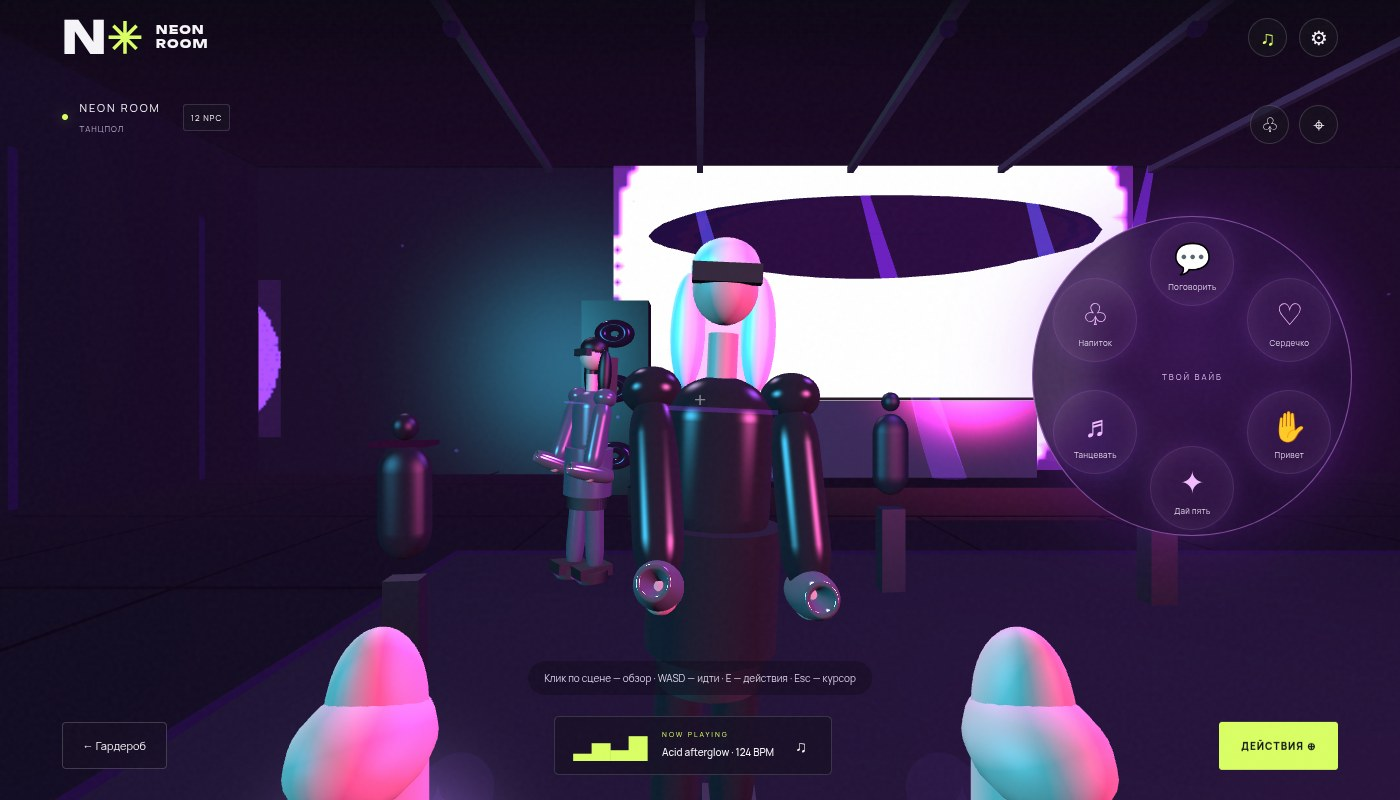
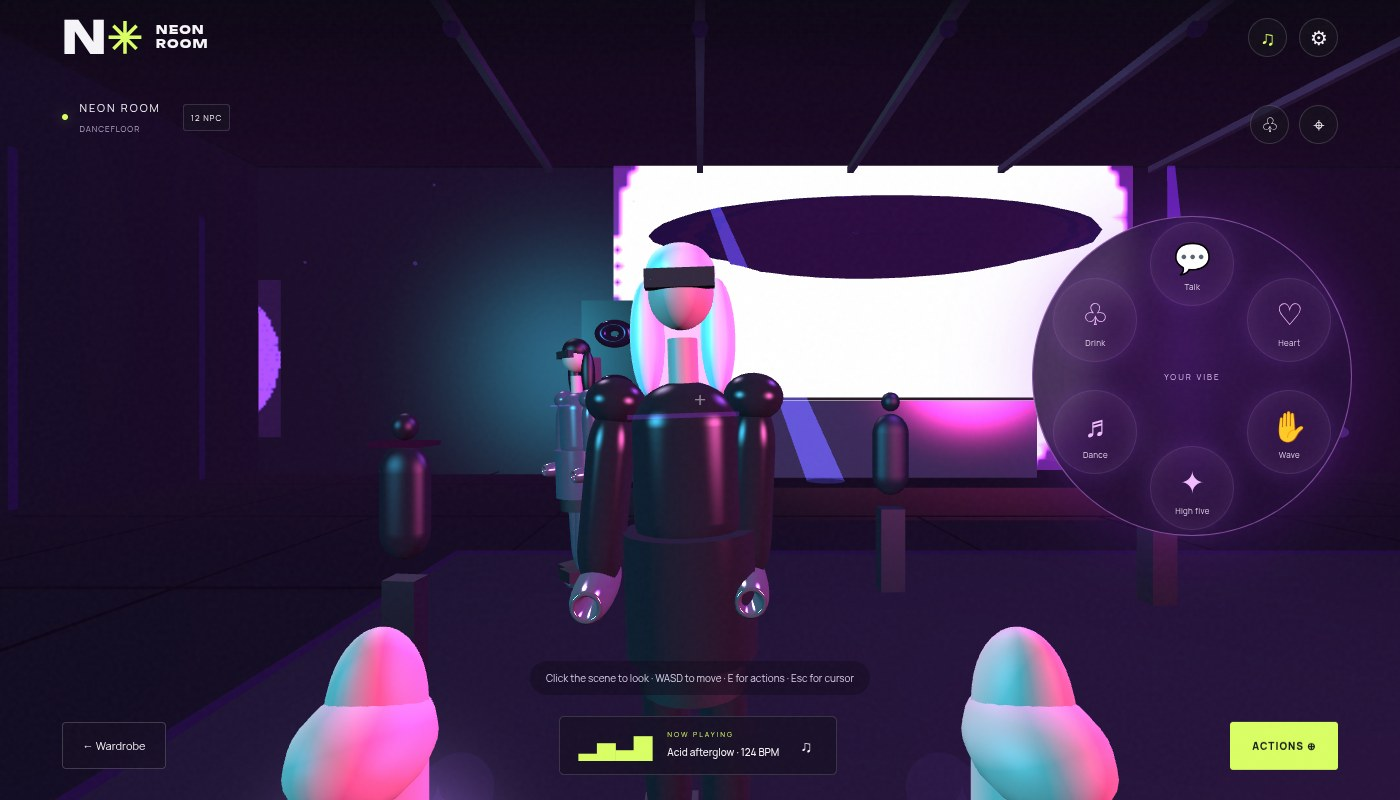
i18n: translate the PlayCanvas interface to English
Every user-facing string in the PlayCanvas port is now English: the landing
page, onboarding (name, wardrobe, locations, controls), the in-game HUD, the
radial action wheel, toasts, the people list, the map, the settings dialog and
the look/zone labels. The Three.js reference under src/ and /classic/ is
untouched.

- playcanvas/index.html, app.js and logic.js contain no Cyrillic text
- a new test asserts the interface ships in English only
- the look-table test now compares name and hex, not the localised note
- screenshots and performance-report.json regenerated

diff --git a/playcanvas/app.js b/playcanvas/app.js
@@ -68,7 +68,7 @@ const npcInteraction = createNpcInteraction({
     if (audio) audio.setDucked(speaking);
     setVolume();
   },
-  onError: () => toast('Не удалось воспроизвести голос. Попробуй ещё раз.')
+  onError: () => toast('Could not play the voice reply. Try again.')
 });
 $('#stop-npc-voice').onclick = () => npcInteraction.stop();
 
@@ -85,9 +85,9 @@ function toggleAudio() {
     if (on) instance.setSilent(false);
     setVolume();
     $('#sound').style.color = on ? 'var(--acid)' : '';
-    toast(on ? 'Музыка включена · ' + instance.trackLabel : 'Музыка выключена');
+    toast(on ? 'Music on · ' + instance.trackLabel : 'Music off');
   } catch (e) {
-    toast('Браузер не разрешил воспроизведение звука');
+    toast('The browser blocked audio playback');
   }
 }
 $('#sound').onclick = toggleAudio;
@@ -96,12 +96,12 @@ $('#game-music').onclick = toggleAudio;
 function nameScreen() {
   const suggestions = ['Luna', 'Void', 'Neon Kid', 'Kira', 'Acid Soul']
     .map(n => '<button data-name="' + n + '">' + n + '</button>').join('');
-  openModal('<div class="name-screen"><span class="step-label">01 / ТВОЁ НОВОЕ Я</span><h2>Как тебя называют<br>после полуночи?</h2><p>Имя для этой ночи. Настоящее или то, которое всегда хотелось.</p><input id="nickname" aria-label="Твоё имя" maxlength="24" placeholder="Твоё имя" autocomplete="nickname"><div class="suggestions">' + suggestions + '</div><button id="next-name" class="primary full">ВЫБРАТЬ ОБРАЗ <span>→</span></button><p style="font-size:10px">Без регистрации. Твой образ сохранится в этом браузере.</p></div>', 'name');
+  openModal('<div class="name-screen"><span class="step-label">01 / YOUR NEW SELF</span><h2>What do they call you<br>after midnight?</h2><p>A name for tonight. Your real one, or the one you always wanted.</p><input id="nickname" aria-label="Your name" maxlength="24" placeholder="Your name" autocomplete="nickname"><div class="suggestions">' + suggestions + '</div><button id="next-name" class="primary full">CHOOSE A LOOK <span>→</span></button><p style="font-size:10px">No sign-up. Your look is saved in this browser.</p></div>', 'name');
   $('#nickname').value = profile.name;
   $$('[data-name]').forEach(b => b.onclick = () => $('#nickname').value = b.dataset.name);
   $('#next-name').onclick = () => {
     const name = $('#nickname').value.trim();
-    if (!name) { toast('Выбери имя или введи своё'); $('#nickname').focus(); return; }
+    if (!name) { toast('Pick a name or type your own'); $('#nickname').focus(); return; }
     profile.name = name;
     save();
     wardrobe();
@@ -111,7 +111,7 @@ function nameScreen() {
 
 function wardrobe() {
   const list = outfits.map((o, i) => '<button class="outfit-item ' + (i === profile.outfit ? 'selected' : '') + '" data-outfit="' + i + '"><span class="swatch" style="background:' + o[1] + '"></span><span><strong>' + o[0] + '</strong><small>' + o[2] + '</small></span></button>').join('');
-  openModal('<span class="step-label">02 / DRESS FOR YOURSELF</span><h2>Найди своё отражение.</h2><div class="outfit-layout"><div class="avatar-preview" id="avatar-preview"><div class="model-views"><button data-view="full" class="active">Во весь рост</button><button data-view="face">Лицо</button><button data-view="fabric">Одежда</button></div><div class="model-zoom"><button id="zoom-in" aria-label="Приблизить модель">+</button><button id="zoom-out" aria-label="Отдалить модель">−</button></div><span class="avatar-caption">ПРОВЕДИ ДЛЯ ВРАЩЕНИЯ ↔</span></div><div><p>AFTER DARK — шесть силуэтов и четыре вариации.<br>Асимметрия, драпировки, объём и металл.</p><div class="outfit-list">' + list + '</div><div class="wardrobe-info" id="outfit-info">' + lookNotes[profile.outfit] + '</div><button class="primary full" id="next-outfit">НАЙТИ ВЕЧЕРИНКУ <span>→</span></button></div></div>', 'wardrobe');
+  openModal('<span class="step-label">02 / DRESS FOR YOURSELF</span><h2>Find your reflection.</h2><div class="outfit-layout"><div class="avatar-preview" id="avatar-preview"><div class="model-views"><button data-view="full" class="active">Full body</button><button data-view="face">Face</button><button data-view="fabric">Garment</button></div><div class="model-zoom"><button id="zoom-in" aria-label="Zoom in">+</button><button id="zoom-out" aria-label="Zoom out">−</button></div><span class="avatar-caption">DRAG TO ROTATE ↔</span></div><div><p>AFTER DARK — six silhouettes, four variations.<br>Asymmetry, drape, volume and metal.</p><div class="outfit-list">' + list + '</div><div class="wardrobe-info" id="outfit-info">' + lookNotes[profile.outfit] + '</div><button class="primary full" id="next-outfit">FIND THE PARTY <span>→</span></button></div></div>', 'wardrobe');
   initPreview();
   $$('[data-outfit]').forEach(b => b.onclick = () => {
     profile.outfit = +b.dataset.outfit;
@@ -124,7 +124,7 @@ function wardrobe() {
 }
 
 function locations() {
-  openModal('<span class="step-label">03 / FOLLOW THE FREQUENCY</span><h2>Куда отправимся?</h2><p>Одна дверь. Целая ночь впереди.</p><div class="location-card"><span class="chip">ОТКРЫТО · ЛОКАЛЬНЫЙ КЛУБ</span><span class="step-label">TECHNO / ACID HOUSE</span><h3>NEON ROOM</h3><p>Танцпол · DJ-сцена · бар · лаунж</p></div><div class="coming-soon"><div>ROOFTOP<small>СЛЕДУЮЩАЯ ГЛАВА</small></div><div>FOREST RAVE<small>СЛЕДУЮЩАЯ ГЛАВА</small></div><div>SPACE CLUB<small>СЛЕДУЮЩАЯ ГЛАВА</small></div></div><button class="primary full" id="enter-club">Я В ДЕЛЕ <span>↗</span></button><p style="font-size:10px">Интерактивная 3D-сцена со стилизованными персонажами. Онлайн и VR — в следующих версиях.</p>', 'locations');
+  openModal('<span class="step-label">03 / FOLLOW THE FREQUENCY</span><h2>Where are we going?</h2><p>One door. A whole night ahead.</p><div class="location-card"><span class="chip">OPEN · LOCAL CLUB</span><span class="step-label">TECHNO / ACID HOUSE</span><h3>NEON ROOM</h3><p>Dancefloor · DJ stage · bar · lounge</p></div><div class="coming-soon"><div>ROOFTOP<small>NEXT CHAPTER</small></div><div>FOREST RAVE<small>NEXT CHAPTER</small></div><div>SPACE CLUB<small>NEXT CHAPTER</small></div></div><button class="primary full" id="enter-club">I AM IN <span>↗</span></button><p style="font-size:10px">An interactive 3D scene with stylized characters. Online and VR are coming in later versions.</p>', 'locations');
   $('#enter-club').onclick = () => profile.name ? controlScreen() : nameScreen();
 }
 
@@ -154,12 +154,12 @@ function setControlMode(mode) {
   save();
   document.body.classList.toggle('mobile-controls', mode === 'mobile');
   $('#game-help').textContent = mode === 'mobile'
-    ? 'Слева — идти · справа — смотреть · можно одновременно'
-    : 'Клик по сцене — обзор · WASD — идти · E — действия · Esc — курсор';
+    ? 'Left to move · right to look · you can do both at once'
+    : 'Click the scene to look · WASD to move · E for actions · Esc for cursor';
 }
 
 function controlScreen() {
-  openModal('<span class="step-label">04 / ТВОЁ УПРАВЛЕНИЕ</span><h2>Как будешь играть?</h2><p>Выбери удобный способ. Его всегда можно сменить в настройках.</p><div class="control-choices"><button data-control="mobile" class="control-choice ' + (controlMode === 'mobile' ? 'selected' : '') + '"><span class="control-icon">▣</span><strong>С телефона</strong><small>Левый джойстик — движение.<br>Правый — поворот и обзор.<br>Все действия — на экране.</small></button><button data-control="desktop" class="control-choice ' + (controlMode === 'desktop' ? 'selected' : '') + '"><span class="control-icon">⌨</span><strong>Клавиатура и мышь</strong><small>WASD — движение.<br>Мышь — поворот и обзор.<br>E — меню действий.</small></button></div><button id="confirm-controls" class="primary full">ВОЙТИ В КЛУБ <span>↗</span></button>', 'controls');
+  openModal('<span class="step-label">04 / YOUR CONTROLS</span><h2>How will you play?</h2><p>Pick what feels right. You can always change it in settings.</p><div class="control-choices"><button data-control="mobile" class="control-choice ' + (controlMode === 'mobile' ? 'selected' : '') + '"><span class="control-icon">▣</span><strong>On a phone</strong><small>Left stick moves.<br>Right stick turns and looks.<br>All actions are on screen.</small></button><button data-control="desktop" class="control-choice ' + (controlMode === 'desktop' ? 'selected' : '') + '"><span class="control-icon">⌨</span><strong>Keyboard and mouse</strong><small>WASD moves.<br>Mouse turns and looks.<br>E opens the action menu.</small></button></div><button id="confirm-controls" class="primary full">ENTER THE CLUB <span>↗</span></button>', 'controls');
   $$('[data-control]').forEach(b => b.onclick = () => {
     setControlMode(b.dataset.control);
     $$('[data-control]').forEach(v => v.classList.toggle('selected', v === b));
@@ -169,7 +169,7 @@ function controlScreen() {
 
 function settings() {
   const trackOptions = tracks.map((t, i) => '<option value="' + i + '">' + t.label + '</option>').join('');
-  openModal('<span class="step-label">MAKE IT YOURS</span><h2>Твоя частота.</h2><div class="settings-row"><label for="control-mode">Управление</label><select id="control-mode"><option value="mobile">Телефон · джойстики</option><option value="desktop">Клавиатура и мышь</option></select></div><div class="settings-row"><label for="volume">Громкость</label><input id="volume" type="range" min="0" max="100" value="' + profile.volume * 100 + '"></div><div class="settings-row"><label for="quality">Графика</label><select id="quality"><option value="low">Экономичная</option><option value="high">Высокая</option></select></div><div class="settings-row"><label for="motion">Спокойный свет</label><input id="motion" type="checkbox" ' + (calmMotion() ? 'checked' : '') + '></div><div class="settings-row"><label for="track">Трек</label><select id="track">' + trackOptions + '</select></div><p>Оригинальные процедурные лупы. Музыка запускается только по твоему нажатию.</p><button class="primary" id="audio-toggle">' + (audio && audio.enabled ? 'ВЫКЛЮЧИТЬ' : 'ВКЛЮЧИТЬ') + ' МУЗЫКУ</button><p style="font-size:10px">Телефон: двигай два джойстика одновременно, чтобы идти и осматриваться. ПК: WASD + мышь.</p>', 'settings');
+  openModal('<span class="step-label">MAKE IT YOURS</span><h2>Your frequency.</h2><div class="settings-row"><label for="control-mode">Controls</label><select id="control-mode"><option value="mobile">Phone · joysticks</option><option value="desktop">Keyboard and mouse</option></select></div><div class="settings-row"><label for="volume">Volume</label><input id="volume" type="range" min="0" max="100" value="' + profile.volume * 100 + '"></div><div class="settings-row"><label for="quality">Graphics</label><select id="quality"><option value="low">Efficient</option><option value="high">High</option></select></div><div class="settings-row"><label for="motion">Calm light</label><input id="motion" type="checkbox" ' + (calmMotion() ? 'checked' : '') + '></div><div class="settings-row"><label for="track">Track</label><select id="track">' + trackOptions + '</select></div><p>Original procedural loops. Music only starts when you tap.</p><button class="primary" id="audio-toggle">' + (audio && audio.enabled ? 'TURN OFF' : 'TURN ON') + ' MUSIC</button><p style="font-size:10px">Phone: move both sticks at once to walk and look around. Desktop: WASD + mouse.</p>', 'settings');
   $('#control-mode').value = controlMode;
   $('#control-mode').onchange = e => setControlMode(e.target.value);
   $('#quality').value = quality;
@@ -187,11 +187,11 @@ function settings() {
     pendingTrack = +e.target.value;
     if (audio) audio.setTrack(pendingTrack);
     $('#track-label').textContent = tracks[pendingTrack].label;
-    toast('Новая частота выбрана');
+    toast('New frequency selected');
   };
   $('#audio-toggle').onclick = () => {
     toggleAudio();
-    $('#audio-toggle').textContent = (audio && audio.enabled ? 'ВЫКЛЮЧИТЬ' : 'ВКЛЮЧИТЬ') + ' МУЗЫКУ';
+    $('#audio-toggle').textContent = (audio && audio.enabled ? 'TURN OFF' : 'TURN ON') + ' MUSIC';
   };
 }
 
@@ -245,7 +245,7 @@ function initPreview() {
     try {
       previewApp = new pc.Application(canvas, { graphicsDeviceOptions: { antialias: true, alpha: true } });
     } catch (e) {
-      toast('3D-превью недоступно в этом браузере');
+      toast('3D preview is unavailable in this browser');
       return;
     }
     previewApp.setCanvasFillMode(pc.FILLMODE_NONE);
@@ -315,7 +315,7 @@ function initWorld() {
     const shotMode = /[?&]shots=1/.test(location.search);
     app = new pc.Application(worldCanvas, { graphicsDeviceOptions: { antialias: quality === 'high', alpha: false, preserveDrawingBuffer: shotMode } });
   } catch (e) {
-    toast('Не удалось запустить WebGL. Попробуй браузер с поддержкой 3D.');
+    toast('Could not start WebGL. Try a browser with 3D support.');
     throw e;
   }
   app.setCanvasFillMode(pc.FILLMODE_FILL_WINDOW);
@@ -479,9 +479,9 @@ function enterClub() {
     setControlMode(controlMode);
     if (!audio) toggleAudio();
     else { audio.setSilent(false); audio.resume(); setVolume(); }
-    toast('Добро пожаловать, ' + profile.name + '. Ночь твоя.');
+    toast('Welcome, ' + profile.name + '. The night is yours.');
   } catch (e) {
-    toast('Не удалось запустить WebGL. Попробуй браузер с поддержкой 3D.');
+    toast('Could not start WebGL. Try a browser with 3D support.');
     console.error(e);
   }
 }
@@ -520,23 +520,23 @@ function action(type) {
   if (type === 'dance') {
     dancing = !dancing;
     $('#dance-state').hidden = !dancing;
-    toast(dancing ? 'Поймай ритм. Движение остановит танец.' : 'Танец остановлен');
+    toast(dancing ? 'Catch the rhythm. Moving will stop the dance.' : 'Dance stopped');
     return;
   }
   if (type === 'drink') {
-    if (drink) { drink = false; $('#drink-view').hidden = true; toast('Напиток убран'); return; }
+    if (drink) { drink = false; $('#drink-view').hidden = true; toast('Drink put away'); return; }
     const cp = camera.getPosition();
-    if (!canTakeDrink(cp.x, cp.z)) { toast('Подойди к бару слева от танцпола'); return; }
+    if (!canTakeDrink(cp.x, cp.z)) { toast('Go to the bar left of the dancefloor'); return; }
     drink = true;
     $('#drink-view').hidden = false;
     effect('✧');
-    toast('Твой Neon tonic. За эту ночь!');
+    toast('Your Neon tonic. To this night!');
     return;
   }
   if (!['talk', 'heart', 'wave', 'five'].includes(type)) return;
   const reply = npcInteraction.interact(near, profile.volume);
-  if (reply === 'out-of-range') { toast('Подойди ближе к персонажу, чтобы поговорить'); return; }
-  if (reply === 'busy') { toast('Персонаж ещё говорит. Дослушай реплику.'); return; }
+  if (reply === 'out-of-range') { toast('Get closer to the character to talk'); return; }
+  if (reply === 'busy') { toast('The character is still talking. Let them finish.'); return; }
   if (reply === 'unavailable') return;
   drink = false;
   $('#drink-view').hidden = true;
@@ -545,19 +545,19 @@ function action(type) {
   const np = near.npc.getPosition();
   near.npc.baseYaw = Math.atan2(cp.x - np.x, cp.z - np.z) * 180 / Math.PI;
   effect({ talk: '💬', heart: '♡', wave: '✋', five: '✦' }[type]);
-  toast(near.npc.npcName + ({ talk: ' отвечает тебе', heart: ' отвечает сердечком ♡', wave: ' машет тебе в ответ', five: ' даёт тебе пять!' }[type]));
+  toast(near.npc.npcName + ({ talk: ' replies to you', heart: ' replies with a heart ♡', wave: ' waves back at you', five: ' high-fives you!' }[type]));
   if (hands) { hands.action = type; hands.until = performance.now() + 1800; }
 }
 
 $$('[data-action]').forEach(b => b.onclick = () => action(b.dataset.action));
 
 $('#people').onclick = () => {
-  const list = club ? club.npcs.map(n => '<div class="person"><span class="person-icon" style="background:' + outfits[n.lookIndex][1] + '">' + n.npcName[0] + '</span><div><b>' + n.npcName + '</b><small>NPC · ' + (n.dance ? 'На танцполе' : 'Отдыхает в клубе') + '</small></div></div>').join('') : '';
-  openModal('<span class="step-label">AROUND YOU</span><h2>На одной волне.</h2><p>Персонажи этой сцены — NPC. Подойди, выбери «Поговорить» или отправь жест — персонаж ответит голосом. Друзья и чат появятся вместе с онлайном.</p>' + list, 'people');
+  const list = club ? club.npcs.map(n => '<div class="person"><span class="person-icon" style="background:' + outfits[n.lookIndex][1] + '">' + n.npcName[0] + '</span><div><b>' + n.npcName + '</b><small>NPC · ' + (n.dance ? 'On the dancefloor' : 'Chilling in the club') + '</small></div></div>').join('') : '';
+  openModal('<span class="step-label">AROUND YOU</span><h2>On the same wavelength.</h2><p>The characters in this scene are NPCs. Walk up, pick “Talk” or send a gesture — they reply with voiced lines. Friends and chat arrive with online play.</p>' + list, 'people');
 };
 
 $('#map').onclick = () => {
-  openModal('<span class="step-label">FIND YOUR SPACE</span><h2>Внутри ночи.</h2><p>Можно дойти пешком или перейти к зоне.</p><div class="map-grid"><button data-zone="0">◉ Танцпол</button><button data-zone="1">♧ Бар</button><button data-zone="2">☾ Лаунж</button><button data-zone="3">↗ Вход</button></div>', 'map');
+  openModal('<span class="step-label">FIND YOUR SPACE</span><h2>Inside the night.</h2><p>Walk there or jump straight to a zone.</p><div class="map-grid"><button data-zone="0">◉ Dancefloor</button><button data-zone="1">♧ Bar</button><button data-zone="2">☾ Lounge</button><button data-zone="3">↗ Entrance</button></div>', 'map');
   $$('[data-zone]').forEach(b => b.onclick = () => {
     const target = mapTargets[+b.dataset.zone];
     if (camera) {

diff --git a/playcanvas/index.html b/playcanvas/index.html
@@ -1,7 +1,7 @@
-<!doctype html><html lang="ru"><head><meta charset="utf-8"><meta name="viewport" content="width=device-width,initial-scale=1,viewport-fit=cover"><meta name="theme-color" content="#10091b"><link rel="icon" href="data:,"><title>NEON ROOM — Ночь начинается с тебя</title><meta name="description" content="Выбери свой образ. Зайди в неоновый 3D-клуб. Танцуй, исследуй и поймай свою частоту."><link rel="stylesheet" href="style.css"></head><body>
+<!doctype html><html lang="en"><head><meta charset="utf-8"><meta name="viewport" content="width=device-width,initial-scale=1,viewport-fit=cover"><meta name="theme-color" content="#10091b"><link rel="icon" href="data:,"><title>NEON ROOM — The night starts with you</title><meta name="description" content="Choose your look. Enter the neon 3D club. Dance, explore and find your frequency."><link rel="stylesheet" href="style.css"></head><body>
 <div id="world"></div><div class="grain"></div>
-<header><a class="brand" href="#" aria-label="NEON ROOM — главная">N<span class="brand-dot">✳</span><span>NEON<br>ROOM</span></a><nav><button data-page="home" class="nav-active">Вечеринка</button><button data-open="wardrobe">Гардероб</button><button data-open="locations">Локации</button></nav><div class="header-right"><span class="edition">AFTER HOURS / VOL. 001 · PLAYCANVAS</span><button id="sound" class="round" aria-label="Включить или выключить музыку">♫</button><button id="settings" class="round" aria-label="Настройки">⚙</button></div></header>
-<main id="landing"><div class="hero-photo"></div><div class="hero-shade"></div><div class="hero-copy"><div class="eyebrow"><i></i> ВИРТУАЛЬНАЯ НОЧЬ. НАСТОЯЩИЙ ВАЙБ.</div><h1>ТВОЯ НОЧЬ.<br>ТВОИ <span>ПРАВИЛА.</span></h1><p>Собери свой образ. Найди свою частоту.<br>Встретимся по ту сторону неона.</p><div class="hero-actions"><button id="start" class="primary">ВОЙТИ В НОЧЬ <span>↗</span></button><button id="explore" class="text-button">Исследовать клуб <span>→</span></button></div><div class="hero-meta"><span><b>01</b> КЛУБ</span><span><b>10</b> ОБРАЗОВ</span><span><b>∞</b> ТВОЙ ВАЙБ</span></div></div><div class="vertical-label">LOSE YOURSELF. FIND YOUR FREQUENCY.</div><div class="photo-tag"><span>THE MOOD</span><b>Electric. Acid. After dark.</b><small>Визуальный концепт NEON ROOM</small></div><div class="hero-bottom"><span><i></i> ИНТЕРАКТИВНЫЙ ПРОТОТИП · NPC</span><span>HEADPHONES ON. WORLD OFF. ↗</span></div></main>
-<section id="home-bottom"><div class="section-title"><span>ВЫБЕРИ СВОЮ ЧАСТОТУ</span><span>ЭТА НОЧЬ ПРИНАДЛЕЖИТ ТЕБЕ ↗</span></div><div class="feature-grid"><button class="feature" data-open="wardrobe"><span class="feature-no">01 / SELF EXPRESSION</span><h2>Не просто<br>дресс-код.</h2><p>10 образов. Ни одного правила.</p><span class="feature-arrow">↗</span><div class="orb one"></div></button><button class="feature" data-open="locations"><span class="feature-no">02 / YOUR DESTINATION</span><h2>Место, где<br>ты на месте.</h2><p>Танцпол, бар и немного космоса.</p><span class="feature-arrow">↗</span><div class="orb two"></div></button><button class="feature" id="dance-card"><span class="feature-no">03 / JUST FEEL IT</span><h2>Меньше слов.<br>Больше баса.</h2><p>Жесты, танцы и твоя энергия.</p><span class="feature-arrow">↗</span><div class="orb three"></div></button></div><footer><span>NEON ROOM © 2026</span><span>СОЗДАНО ДЛЯ ТЕХ, КТО НЕ СПИТ.</span><span>LOCAL EXPERIENCE / V.01</span></footer></section>
-<div id="game-ui" hidden><div class="room-label"><i></i><span>NEON ROOM <small id="zone">ВХОДНАЯ ГАЛЕРЕЯ</small></span><span class="npc-badge">12 NPC</span></div><div id="crosshair">+</div><div class="game-help" id="game-help">Выбери удобный способ управления</div><div class="game-bottom"><button id="backroom" class="glass">← Гардероб</button><div class="now-playing"><span class="equalizer">▂▅▃▇</span><div><small>NOW PLAYING</small><b id="track-label">Acid afterglow · 124 BPM</b></div><button id="game-music" aria-label="Музыка">♫</button></div><button id="actions-toggle" class="primary compact">ДЕЙСТВИЯ ⊕</button></div><div class="game-side"><button id="people" class="round" aria-label="Персонажи">♧</button><button id="map" class="round" aria-label="Карта клуба">⌖</button></div><div id="action-wheel" hidden><div class="wheel-title">ТВОЙ ВАЙБ</div><button data-action="talk">💬<span>Поговорить</span></button><button data-action="heart">♡<span>Сердечко</span></button><button data-action="wave">✋<span>Привет</span></button><button data-action="five">✦<span>Дай пять</span></button><button data-action="dance">♬<span>Танцевать</span></button><button data-action="drink">♧<span>Напиток</span></button></div><div id="touch-controls"><div class="stick-wrap move-wrap"><div class="joystick" id="move-stick" role="group" aria-label="Джойстик движения: вперёд, назад, влево и вправо"><span class="direction north">↑</span><span class="direction south">↓</span><span class="direction west">←</span><span class="direction east">→</span><span class="stick-thumb"></span></div><span class="stick-label">ДВИЖЕНИЕ</span></div><div class="stick-wrap look-wrap"><div class="joystick" id="look-stick" role="group" aria-label="Джойстик обзора: поворот и взгляд вверх или вниз"><span class="direction north">↑</span><span class="direction south">↓</span><span class="direction west">↶</span><span class="direction east">↷</span><span class="stick-thumb">⌖</span></div><span class="stick-label">ОБЗОР</span></div></div><div id="npc-speaking" class="glass" role="status" hidden><span>♫ Персонаж отвечает…</span><button id="stop-npc-voice" aria-label="Остановить голос">×</button></div><div id="effect"></div><div id="drink-view" hidden>♧</div><div id="dance-state" hidden>♫ ТЫ ТАНЦУЕШЬ <small>Нажми ещё раз или начни движение, чтобы остановиться</small></div></div>
-<div id="modal" class="modal" hidden><div class="dialog"><button id="close-modal" class="close" aria-label="Закрыть">×</button><div id="modal-content"></div></div></div><div id="toast" role="status" aria-live="polite"></div><audio id="npc-voice" src="./assets/audio/npc-voice.mp3" preload="none" hidden></audio><script src="./vendor/playcanvas.min.js"></script><script type="module" src="app.js"></script></body></html>
+<header><a class="brand" href="#" aria-label="NEON ROOM — home">N<span class="brand-dot">✳</span><span>NEON<br>ROOM</span></a><nav><button data-page="home" class="nav-active">Party</button><button data-open="wardrobe">Wardrobe</button><button data-open="locations">Locations</button></nav><div class="header-right"><span class="edition">AFTER HOURS / VOL. 001 · PLAYCANVAS</span><button id="sound" class="round" aria-label="Toggle music">♫</button><button id="settings" class="round" aria-label="Settings">⚙</button></div></header>
+<main id="landing"><div class="hero-photo"></div><div class="hero-shade"></div><div class="hero-copy"><div class="eyebrow"><i></i> VIRTUAL NIGHT. REAL VIBE.</div><h1>YOUR NIGHT.<br>YOUR <span>RULES.</span></h1><p>Build your look. Find your frequency.<br>See you on the other side of neon.</p><div class="hero-actions"><button id="start" class="primary">ENTER THE NIGHT <span>↗</span></button><button id="explore" class="text-button">Explore the club <span>→</span></button></div><div class="hero-meta"><span><b>01</b> CLUB</span><span><b>10</b> LOOKS</span><span><b>∞</b> YOUR VIBE</span></div></div><div class="vertical-label">LOSE YOURSELF. FIND YOUR FREQUENCY.</div><div class="photo-tag"><span>THE MOOD</span><b>Electric. Acid. After dark.</b><small>Visual concept NEON ROOM</small></div><div class="hero-bottom"><span><i></i> INTERACTIVE PROTOTYPE · NPC</span><span>HEADPHONES ON. WORLD OFF. ↗</span></div></main>
+<section id="home-bottom"><div class="section-title"><span>PICK YOUR FREQUENCY</span><span>THIS NIGHT IS YOURS ↗</span></div><div class="feature-grid"><button class="feature" data-open="wardrobe"><span class="feature-no">01 / SELF EXPRESSION</span><h2>Not just<br>a dress code.</h2><p>10 looks. Not a single rule.</p><span class="feature-arrow">↗</span><div class="orb one"></div></button><button class="feature" data-open="locations"><span class="feature-no">02 / YOUR DESTINATION</span><h2>The place where<br>you belong.</h2><p>Dancefloor, bar and a little space.</p><span class="feature-arrow">↗</span><div class="orb two"></div></button><button class="feature" id="dance-card"><span class="feature-no">03 / JUST FEEL IT</span><h2>Fewer words.<br>More bass.</h2><p>Gestures, dancing and your energy.</p><span class="feature-arrow">↗</span><div class="orb three"></div></button></div><footer><span>NEON ROOM © 2026</span><span>MADE FOR THOSE WHO DON'T SLEEP.</span><span>LOCAL EXPERIENCE / V.01</span></footer></section>
+<div id="game-ui" hidden><div class="room-label"><i></i><span>NEON ROOM <small id="zone">ENTRANCE GALLERY</small></span><span class="npc-badge">12 NPC</span></div><div id="crosshair">+</div><div class="game-help" id="game-help">Choose your control scheme</div><div class="game-bottom"><button id="backroom" class="glass">← Wardrobe</button><div class="now-playing"><span class="equalizer">▂▅▃▇</span><div><small>NOW PLAYING</small><b id="track-label">Acid afterglow · 124 BPM</b></div><button id="game-music" aria-label="Music">♫</button></div><button id="actions-toggle" class="primary compact">ACTIONS ⊕</button></div><div class="game-side"><button id="people" class="round" aria-label="Characters">♧</button><button id="map" class="round" aria-label="Club map">⌖</button></div><div id="action-wheel" hidden><div class="wheel-title">YOUR VIBE</div><button data-action="talk">💬<span>Talk</span></button><button data-action="heart">♡<span>Heart</span></button><button data-action="wave">✋<span>Wave</span></button><button data-action="five">✦<span>High five</span></button><button data-action="dance">♬<span>Dance</span></button><button data-action="drink">♧<span>Drink</span></button></div><div id="touch-controls"><div class="stick-wrap move-wrap"><div class="joystick" id="move-stick" role="group" aria-label="Movement joystick: forward, back, left and right"><span class="direction north">↑</span><span class="direction south">↓</span><span class="direction west">←</span><span class="direction east">→</span><span class="stick-thumb"></span></div><span class="stick-label">MOVE</span></div><div class="stick-wrap look-wrap"><div class="joystick" id="look-stick" role="group" aria-label="Look joystick: turn and look up or down"><span class="direction north">↑</span><span class="direction south">↓</span><span class="direction west">↶</span><span class="direction east">↷</span><span class="stick-thumb">⌖</span></div><span class="stick-label">LOOK</span></div></div><div id="npc-speaking" class="glass" role="status" hidden><span>♫ Character is replying…</span><button id="stop-npc-voice" aria-label="Stop voice">×</button></div><div id="effect"></div><div id="drink-view" hidden>♧</div><div id="dance-state" hidden>♫ YOU'RE DANCING <small>Tap again or start moving to stop</small></div></div>
+<div id="modal" class="modal" hidden><div class="dialog"><button id="close-modal" class="close" aria-label="Close">×</button><div id="modal-content"></div></div></div><div id="toast" role="status" aria-live="polite"></div><audio id="npc-voice" src="./assets/audio/npc-voice.mp3" preload="none" hidden></audio><script src="./vendor/playcanvas.min.js"></script><script type="module" src="app.js"></script></body></html>

diff --git a/playcanvas/logic.js b/playcanvas/logic.js
@@ -1,29 +1,29 @@
 // Pure, engine-independent logic shared by the PlayCanvas port and its tests.
 
 export const looks = [
-  ['Draped Noir', '#24202b', 'Кожа · асимметричная юбка'],
-  ['Shadow Tailor', '#29262d', 'Деконструкция · широкие брюки'],
-  ['Ritual', '#24252b', 'Высокий воротник · платформы'],
-  ['Acid Nomad', '#30312c', 'Объёмный нейлон · acid green'],
-  ['Violet Veil', '#58304e', 'Фиолетовый · многослойность'],
-  ['Night Mass', '#24222c', 'Длинное пальто · цепи'],
-  ['Silver Noir', '#525260', 'Draped Noir · серебряная кожа'],
-  ['Ash Ritual', '#706a70', 'Ritual · пепельный хлопок'],
-  ['Violet Nomad', '#49334e', 'Acid Nomad · тёмная слива'],
-  ['Midnight Tailor', '#252b39', 'Shadow Tailor · чернильный']
+  ['Draped Noir', '#24202b', 'Leather · asymmetric skirt'],
+  ['Shadow Tailor', '#29262d', 'Deconstruction · wide trousers'],
+  ['Ritual', '#24252b', 'High collar · platforms'],
+  ['Acid Nomad', '#30312c', 'Oversized nylon · acid green'],
+  ['Violet Veil', '#58304e', 'Violet · layering'],
+  ['Night Mass', '#24222c', 'Long coat · chains'],
+  ['Silver Noir', '#525260', 'Draped Noir · silver leather'],
+  ['Ash Ritual', '#706a70', 'Ritual · ash cotton'],
+  ['Violet Nomad', '#49334e', 'Acid Nomad · dark plum'],
+  ['Midnight Tailor', '#252b39', 'Shadow Tailor · ink']
 ];
 
 export const lookNotes = [
-  'Косая кожаная куртка, открытая талия, юбка с запахом и высокие платформы.',
-  'Плечи оверсайз, многослойная рубашка, широкие брюки и тяжёлая обувь.',
-  'Скульптурный воротник, вытянутый жилет, кольца и высокие ботинки.',
-  'Объёмный бомбер, капюшон, карго и кислотные шнуры.',
-  'Тонкий фиолетовый трикотаж, многослойная юбка, высокие ботинки и манжеты.',
-  'Архитектурное пальто, перекрёстные ремни, свободные брюки и цепи.',
-  'Серебряная версия асимметричного кожаного образа.',
-  'Пепельная версия вытянутого силуэта с высоким воротником.',
-  'Тёмно-фиолетовая версия рейв-карго с металлической фурнитурой.',
-  'Чернильная версия деконструированного костюма.'
+  'Asymmetric leather jacket, open midriff, wrap skirt and high platforms.',
+  'Oversized shoulders, a layered shirt, wide trousers and heavy boots.',
+  'Sculptural collar, elongated vest, rings and high boots.',
+  'Oversized bomber, hood, cargo and acid drawcords.',
+  'Fine violet knit, layered skirt, high boots and cuffs.',
+  'Architectural coat, crossed straps, loose trousers and chains.',
+  'Silver take on the asymmetric leather look.',
+  'Ash take on the elongated silhouette with a high collar.',
+  'Deep-violet take on rave cargo with metal hardware.',
+  'Ink take on the deconstructed tailoring.'
 ];
 
 // Silhouette family per look, mirroring the Three.js avatar builder.
@@ -40,11 +40,11 @@ export const npcPositions = [[-3, -3], [2, -4], [0, -1], [3, 1], [-2, 2], [4, -6
 export const dancingNpcCount = 7;
 
 export const zoneLabels = {
-  entry: 'ВХОДНАЯ ГАЛЕРЕЯ',
-  bar: 'БАР / RECHARGE',
-  lounge: 'ЛАУНЖ / SLOW DOWN',
-  stage: 'DJ-СЦЕНА',
-  dancefloor: 'ТАНЦПОЛ'
+  entry: 'ENTRANCE GALLERY',
+  bar: 'BAR / RECHARGE',
+  lounge: 'LOUNGE / SLOW DOWN',
+  stage: 'DJ STAGE',
+  dancefloor: 'DANCEFLOOR'
 };
 
 export function zoneForPosition(x, z) {

diff --git a/tests/playcanvas.test.js b/tests/playcanvas.test.js
@@ -6,7 +6,7 @@ import { dirname, join } from 'node:path';
 
 import {
   looks, lookNotes, lookStyles, tracks, zoneForPosition, isBlocked,
-  sanitizeProfile, defaultControlMode, nearestNpc, canTakeDrink, mapTargets,
+  sanitizeProfile, defaultControlMode, nearestNpc, canTakeDrink, mapTargets, zoneLabels,
   npcNames, npcPositions, dancingNpcCount, defaultProfile
 } from '../playcanvas/logic.js';
 
@@ -26,8 +26,9 @@ test('the PlayCanvas look table matches the canonical Three.js source', () => {
   const end = source.indexOf('];', start);
   const block = source.slice(start, end);
   const canonical = [...block.matchAll(/\[\s*'([^']+)'\s*,\s*'(#[0-9a-fA-F]+)'\s*,\s*'([^']+)'\s*\]/g)]
-    .map(match => [match[1], match[2], match[3]]);
-  assert.deepEqual(looks, canonical);
+    .map(match => [match[1], match[2]]);
+  assert.deepEqual(looks.map(([name, hex]) => [name, hex]), canonical);
+  assert.ok(looks.every(([, , note]) => typeof note === 'string' && note.length > 0));
 });
 
 test('three procedural tracks are available', () => {
@@ -144,4 +145,15 @@ test('the brief reference and the screenshot automation are committed', () => {
   assert.match(shots, /shots=1/);
   assert.match(shots, /focus\(/);
   assert.ok(read('playcanvas/app.js').includes('preserveDrawingBuffer'));
+});
+
+test('the PlayCanvas interface ships in English only', () => {
+  for (const file of ['playcanvas/index.html', 'playcanvas/app.js', 'playcanvas/logic.js']) {
+    assert.ok(!/[\u0400-\u04FF]/.test(read(file)), file + ' still contains Cyrillic text');
+  }
+  for (const label of Object.values(zoneLabels)) {
+    assert.ok(!/[\u0400-\u04FF]/.test(label), 'zone label is not English: ' + label);
+  }
+  assert.ok(looks.every(([, , note]) => !/[\u0400-\u04FF]/.test(note)));
+  assert.ok(lookNotes.every(note => !/[\u0400-\u04FF]/.test(note)));
 });

diff --git a/Tasks/spec-003.md b/Tasks/spec-003.md
@@ -68,6 +68,7 @@ a measured performance smoke test. Pixel-identical character meshes are not requ
       written down in the branch notes.
 - [x] The brief's club/meeting mood reference is stored on the branch, and a Playwright script
       captures gameplay screenshots and compares them with it.
+- [x] The PlayCanvas interface (landing, onboarding, HUD and modals) is fully in English.
 - [x] The experiment is committed on `codex/playcanvas-port`, pushed, and published to
       GitHub Pages from that branch: https://tonidondoni.github.io/neon-room-afterhours/
 - [x] Online multiplayer, friends, chat, live voice, VR, streaming and monetization remain out
